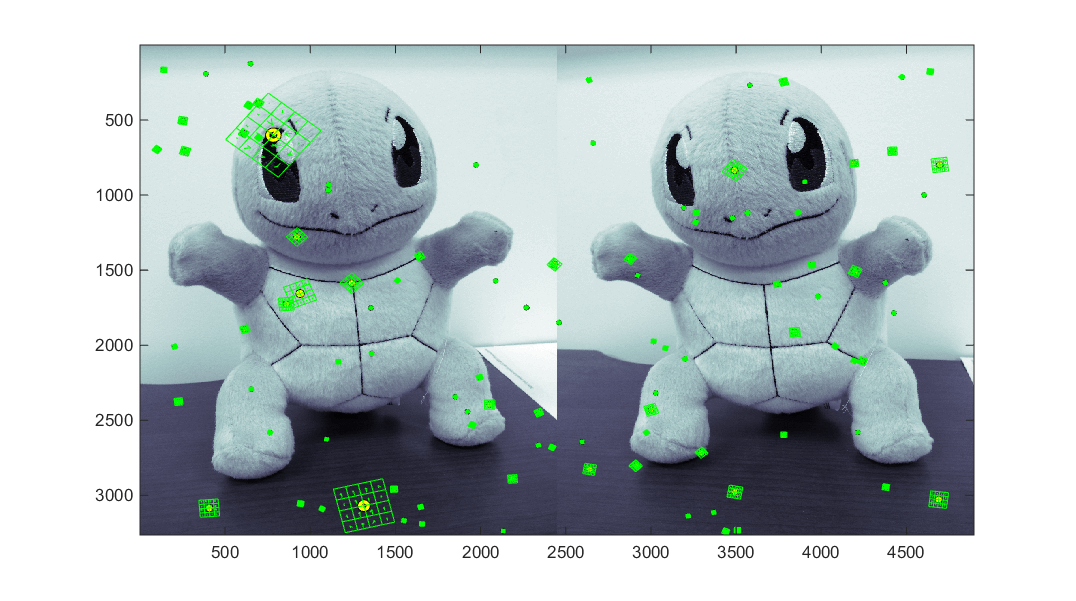
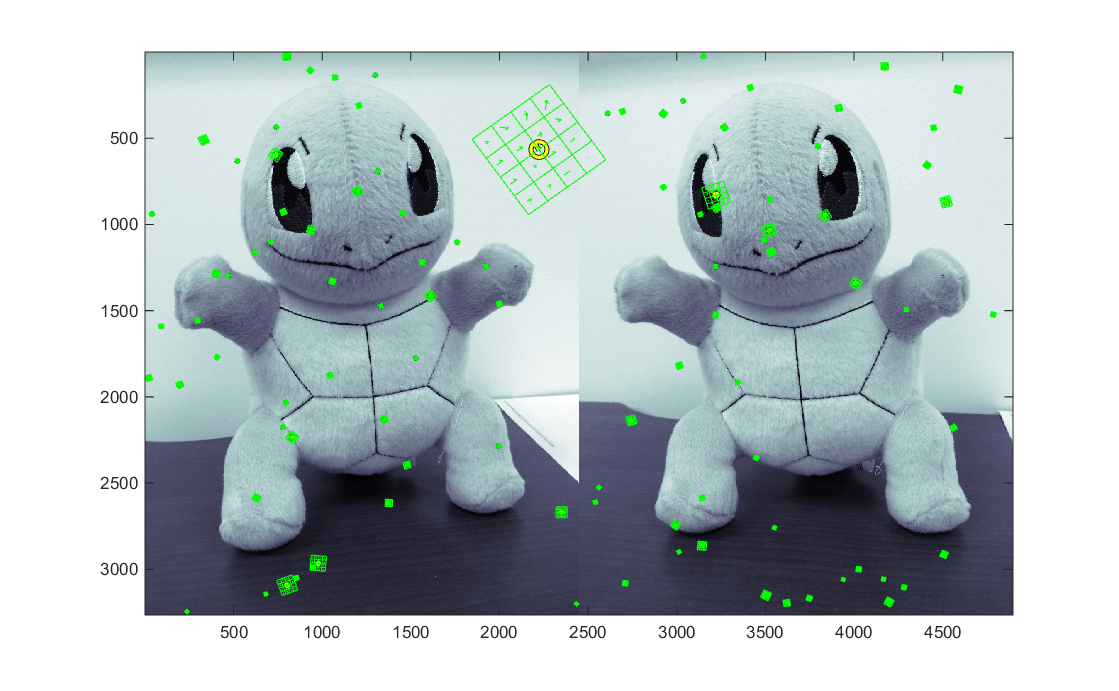
more of the write up completed

diff --git a/Homework2/HW2_solution.tex b/Homework2/HW2_solution.tex
@@ -4,6 +4,9 @@
 \usepackage{amssymb}
 \usepackage{float}
 \usepackage{listings}
+\usepackage{graphicx}
+\usepackage{caption}
+\usepackage{subcaption}
 
 \newcount\refno\refno=1
 \def\ref{\the\refno \global\advance\refno by 1}
@@ -44,14 +47,31 @@
 
 \section*{Problem 1}
 
-Using our assumptions about lenses, we have the following diagram:
+The following are examples of running the SIFT matching code on my own objects
 
-%\begin{figure}[H]
-%\centering
-%\includegraphics[height=4in]{hw1prob1diagram.png}
-%\caption{Diagram of lens and its focal length}
-%\end{figure}
+\subsection*{Squirtle Example}
 
+Figure \ref{squirtleOriginal} shows the original pictures that I took of a stuffed Pokemon named Squirtle. 
+
+\begin{figure}
+        \centering
+        \begin{subfigure}[b]{0.4\textwidth}
+                \includegraphics[width=\textwidth]{squirtle1.jpg}
+		\caption{Left Image}
+        \end{subfigure}
+        \begin{subfigure}[b]{0.4\textwidth}
+                \includegraphics[width=\textwidth]{squirtle2.jpg}
+                \caption{Right Image}
+        \end{subfigure}
+        \caption{Original Pictures of Stuffed Squirtle}
+        \label{squirtleOriginal}
+\end{figure}
+
+\begin{figure}[H]
+\centering
+\includegraphics[height=4in]{squirtle_pointsWoMatching.png}
+\caption{Squirtle Images With Points Marked}
+\end{figure}
 
 %\lstinputlisting[firstline=1, lastline=54]{triangulate.m}
 

diff --git a/Homework2/prob1script.m b/Homework2/prob1script.m
@@ -77,7 +77,7 @@ set(h1,'color','k','linewidth',3) ;
 set(h2,'color','y','linewidth',2) ;
 h3 = vl_plotsiftdescriptor(d2(:,sel2),f2New) ;
 set(h3,'color','g') ;
-
+%%
 hold on
 for i = 1:size(image1Points,2)
    Xvals = [image1Points(1,i) image2Points(1,i)+width];
